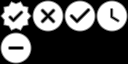
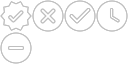
get sdf-glyphs-manager up and running with atlas

diff --git a/app/sdf-shapes/sdf-shapes.js b/app/sdf-shapes/sdf-shapes.js
@@ -10,7 +10,14 @@ export default class SdfShapes extends crsbinding.classes.ViewBase {
 
         const ready = async () => {
             this.canvas.removeEventListener("ready", ready);
-            await crs.call("gfx_sdf_icon", "add", { element: this.canvas, shader: "sdf", atlas: "statuses", glyph: "approved" });
+
+            this.canvas.__engine.setHardwareScalingLevel(0.25/ window.devicePixelRatio);
+
+            await crs.call("gfx_sdf_icon", "add", { element: this.canvas, shader: "sdf", atlas: "statuses", glyph: "approved", position: {x: -2}});
+            await crs.call("gfx_sdf_icon", "add", { element: this.canvas, shader: "sdf", atlas: "statuses", glyph: "cancel", position: {x: -1} });
+            await crs.call("gfx_sdf_icon", "add", { element: this.canvas, shader: "sdf", atlas: "statuses", glyph: "check-circle", position: {x: 0} });
+            await crs.call("gfx_sdf_icon", "add", { element: this.canvas, shader: "sdf", atlas: "statuses", glyph: "clock", position: {x: 1} });
+            await crs.call("gfx_sdf_icon", "add", { element: this.canvas, shader: "sdf", atlas: "statuses", glyph: "minus-circle", position: {x: 2} });
         }
 
         if (this.canvas.dataset.ready == "true") {

diff --git a/src/managers/materials-manager.js b/src/managers/materials-manager.js
@@ -74,7 +74,8 @@ class MaterialsManager {
                 },
                 {
                     attributes: ["position", "normal", "uv"],
-                    uniforms: ["world", "worldView", "worldViewProjection", "view", "projection"]
+                    uniforms: ["world", "worldView", "worldViewProjection", "view", "projection"],
+                    needAlphaBlending: true
                 }
             );
 
